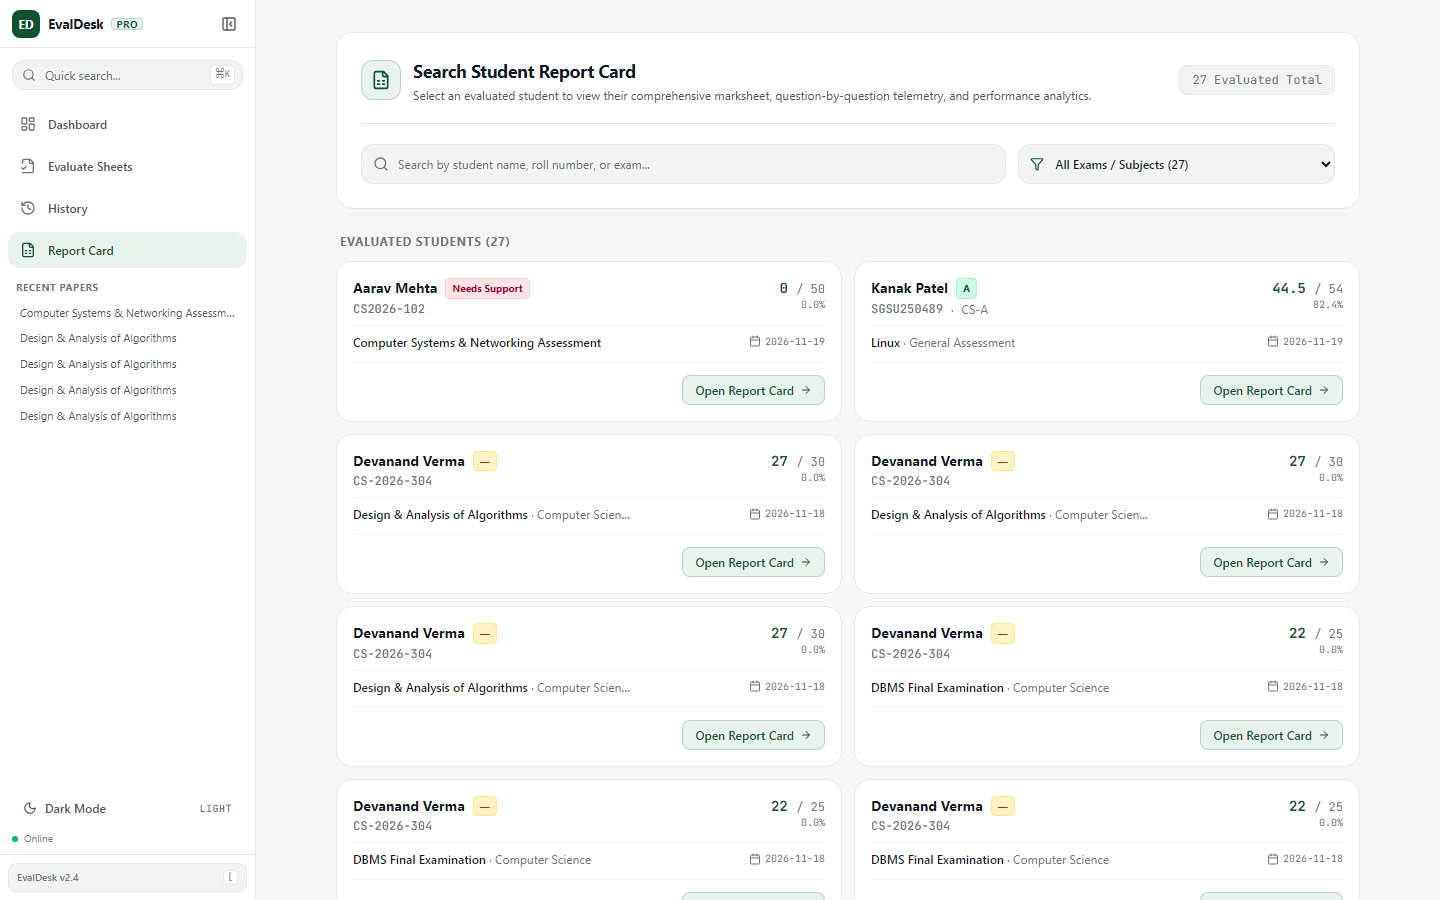
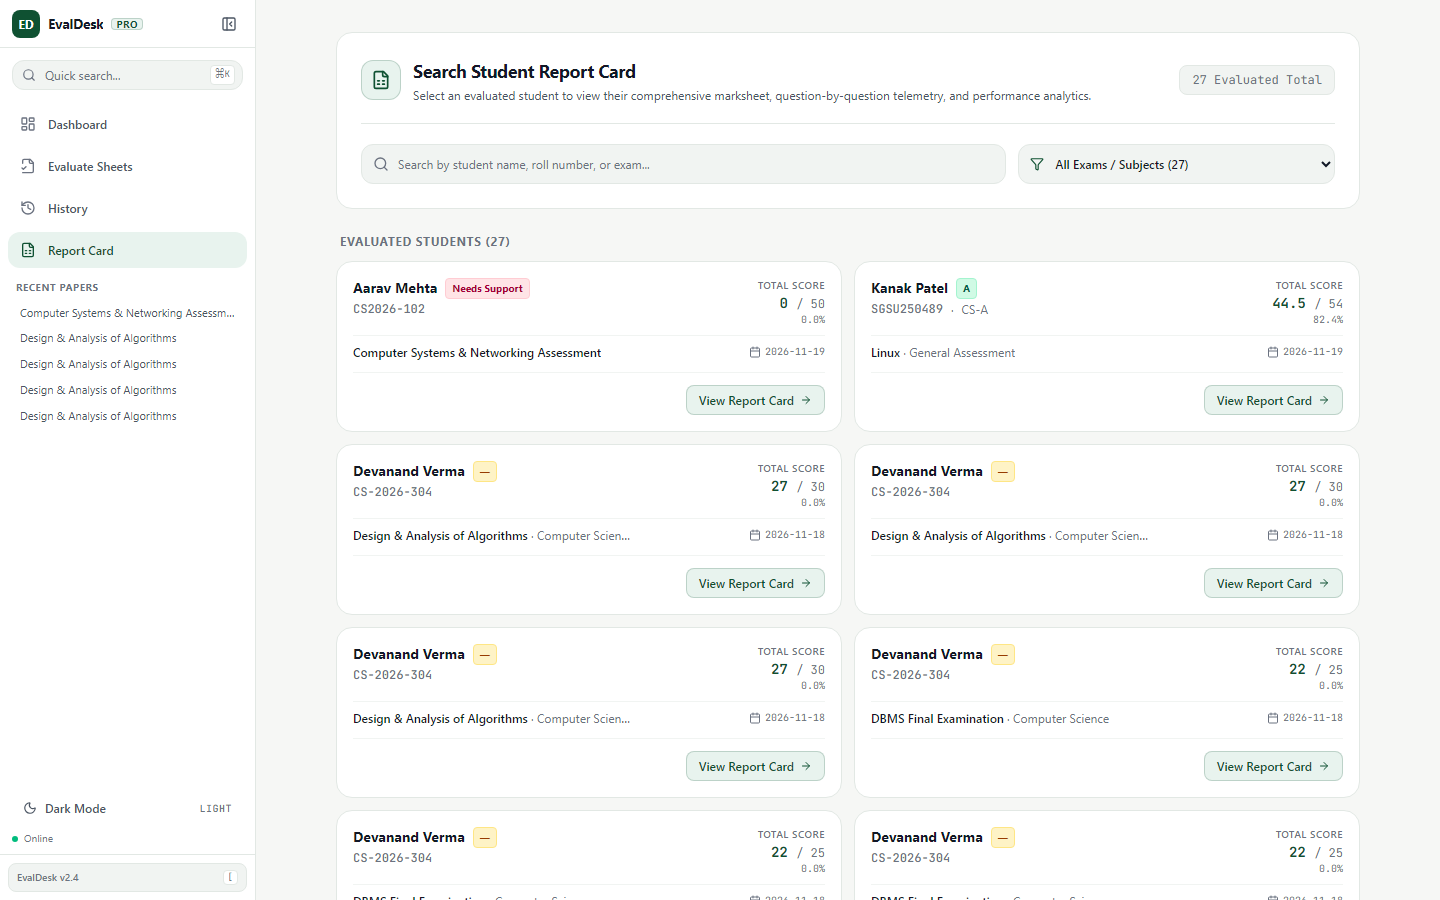
docs: record verification of multi-student search, stepper, comparison, and leaderboard

diff --git a/verify_evaldesk_features.py b/verify_evaldesk_features.py
@@ -1,0 +1,164 @@
+import asyncio
+import os
+import sys
+from playwright.async_api import async_playwright
+
+async def verify_evaldesk_features():
+    os.makedirs("docs/proof/ui/screenshots", exist_ok=True)
+    async with async_playwright() as p:
+        browser = await p.chromium.launch(headless=True)
+        context = await browser.new_context(viewport={"width": 1440, "height": 900})
+        page = await context.new_page()
+
+        print("=== 1. VERIFY DASHBOARD TOP PERFORMERS LEADERBOARD ===")
+        await page.goto("http://localhost:3000/#/dashboard")
+        await page.wait_for_timeout(3000)
+
+        # Assert Leaderboard header
+        leaderboard_title = await page.locator("text=Top Performers Leaderboard").first.is_visible()
+        print(f"Top Performers Leaderboard visible: {leaderboard_title}")
+        assert leaderboard_title, "Top Performers Leaderboard should be visible on dashboard"
+
+        # Check subtext
+        subtext = await page.locator("text=Cross-subject & cross-stream academic excellence").first.is_visible()
+        print(f"Leaderboard subtext visible: {subtext}")
+
+        # Check rank badges
+        rank1 = await page.locator("text=#1").first.is_visible()
+        print(f"Rank #1 badge visible: {rank1}")
+        assert rank1, "Rank #1 badge should be visible in leaderboard"
+
+        await page.screenshot(path="docs/proof/ui/screenshots/proof_dashboard_leaderboard.png")
+        print("Captured docs/proof/ui/screenshots/proof_dashboard_leaderboard.png")
+
+        print("\n=== 2. VERIFY REPORT CARD SEARCH & DIRECTORY ===")
+        await page.goto("http://localhost:3000/#/reports")
+        await page.wait_for_timeout(3000)
+
+        search_header = await page.locator("text=Search Student Report Card").first.is_visible()
+        print(f"Search Student Report Card visible: {search_header}")
+        assert search_header, "Search Student Report Card heading must be visible"
+
+        # Check directory student cards
+        cards = await page.locator("text=View Report Card").all()
+        print(f"Found {len(cards)} student cards with 'View Report Card' button")
+        assert len(cards) > 0, "Should list evaluated student cards"
+
+        await page.screenshot(path="docs/proof/ui/screenshots/proof_report_card_directory.png")
+        print("Captured docs/proof/ui/screenshots/proof_report_card_directory.png")
+
+        print("\n=== 3. VERIFY MULTI-SELECT CHECKBOXES & BULK ACTIONS BAR ===")
+        checkboxes = await page.locator("button[title='Select candidate']").all()
+        print(f"Found {len(checkboxes)} student candidate checkboxes")
+        assert len(checkboxes) >= 2, "Expected at least 2 student checkboxes"
+
+        # Select first 2 candidates
+        await checkboxes[0].click()
+        await page.wait_for_timeout(500)
+        await checkboxes[1].click()
+        await page.wait_for_timeout(500)
+
+        # Check action bar appearance
+        action_bar_text = await page.locator("text=Candidates Selected").first.is_visible()
+        print(f"Action bar visible: {action_bar_text}")
+        assert action_bar_text, "Action bar should appear when candidates are selected"
+
+        compare_btn = await page.locator("text=Compare Selected").first.is_visible()
+        print(f"Compare Selected button visible: {compare_btn}")
+        assert compare_btn, "Compare Selected button should be visible"
+
+        bulk_download_btn = await page.locator("text=Download Bulk Reports").first.is_visible()
+        print(f"Download Bulk Reports button visible: {bulk_download_btn}")
+        assert bulk_download_btn, "Download Bulk Reports button should be visible"
+
+        await page.screenshot(path="docs/proof/ui/screenshots/proof_report_card_multi_select.png")
+        print("Captured docs/proof/ui/screenshots/proof_report_card_multi_select.png")
+
+        print("\n=== 4. VERIFY SIDE-BY-SIDE COMPARISON VIEW ===")
+        await page.locator("button:has-text('Compare Selected')").first.click()
+        await page.wait_for_timeout(3000)
+
+        compare_heading = await page.locator("text=Student Performance Comparison").first.is_visible()
+        print(f"Comparison heading visible: {compare_heading}")
+        assert compare_heading, "Comparison view heading must be visible"
+
+        pct_chart = await page.locator("text=Overall Percentage Comparison").first.is_visible()
+        print(f"Percentage comparison chart visible: {pct_chart}")
+        assert pct_chart, "Score comparison bar chart must be visible"
+
+        matrix_table = await page.locator("text=Question & Section Marks Matrix").first.is_visible()
+        print(f"Matrix table visible: {matrix_table}")
+        assert matrix_table, "Comparison matrix table must be visible"
+
+        excel_export_btn = await page.locator("text=Export Comparison (.xlsx)").first.is_visible()
+        print(f"Export Comparison Excel button visible: {excel_export_btn}")
+        assert excel_export_btn, "Export Comparison (.xlsx) button must be visible"
+
+        await page.screenshot(path="docs/proof/ui/screenshots/proof_report_card_compare_view.png")
+        print("Captured docs/proof/ui/screenshots/proof_report_card_compare_view.png")
+
+        # Click Back to Selection
+        await page.locator("button:has-text('Back to Selection')").first.click()
+        await page.wait_for_timeout(1000)
+
+        print("\n=== 5. VERIFY ONE-BY-ONE STEPPER VIEW (HIDDEN ANSWER SHEET) ===")
+        # Click View Report Cards One-by-One
+        await page.locator("button:has-text('View Report Cards')").first.click()
+        await page.wait_for_timeout(3000)
+
+        stepper_label = await page.locator("text=Student 1 of").first.is_visible()
+        print(f"Stepper label visible: {stepper_label}")
+        assert stepper_label, "Stepper label 'Student 1 of N' must be visible"
+
+        prev_btn = await page.locator("button[title='Previous Student']").first.is_visible()
+        next_btn = await page.locator("button[title='Next Student']").first.is_visible()
+        print(f"Previous button visible: {prev_btn}, Next button visible: {next_btn}")
+        assert prev_btn and next_btn, "Previous and Next stepper buttons must be visible"
+
+        # Check tabs in report view
+        overview_tab = await page.locator("role=tab[name='Overview']").first.is_visible()
+        q_tab = await page.locator("role=tab[name='Question-wise Marks']").first.is_visible()
+        analytics_tab = await page.locator("role=tab[name='Analytics & Charts']").first.is_visible()
+        print(f"Overview: {overview_tab}, Question-wise: {q_tab}, Analytics: {analytics_tab}")
+        assert overview_tab and q_tab and analytics_tab, "All 3 tabs must be present"
+
+        # Crucial check: Booklet preview must NOT be present in #/reports (hidden answer sheet)
+        booklet_canvas = await page.locator("canvas").all()
+        # In hideAnswerSheet={true}, there is no booklet canvas for PDF pages
+        booklet_header = await page.locator("text=Answer Booklet").is_visible()
+        print(f"Booklet preview header visible in #/reports: {booklet_header} (should be False)")
+        assert not booklet_header, "Scanned Answer Booklet must be HIDDEN in #/reports"
+
+        await page.screenshot(path="docs/proof/ui/screenshots/proof_report_card_stepper_view.png")
+        print("Captured docs/proof/ui/screenshots/proof_report_card_stepper_view.png")
+
+        # Test Stepper Next button
+        await page.locator("button[title='Next Student']").first.click()
+        await page.wait_for_timeout(1500)
+        stepper_label2 = await page.locator("text=Student 2 of").first.is_visible()
+        print(f"Stepper stepped to Student 2: {stepper_label2}")
+        assert stepper_label2, "Should step to Student 2 of N"
+
+        print("\n=== 6. VERIFY POST-EVALUATION REPORT ROUTE (#/report/:sheetId) ===")
+        # Get sheet id from current stepper or URL
+        first_sheet_id = "18d9bb88-1585-4c8e-85d3-212381a85c4a"
+        await page.goto(f"http://localhost:3000/#/report/{first_sheet_id}")
+        await page.wait_for_timeout(3000)
+
+        # In #/report/:sheetId, the answer booklet preview MUST BE PRESENT alongside report
+        stepper_workflow = await page.locator("text=3. Report (ACTIVE)").first.is_visible()
+        print(f"Post-evaluation 3-step workflow visible: {stepper_workflow}")
+        assert stepper_workflow, "3. Report (ACTIVE) workflow header should be present"
+
+        booklet_present = await page.locator("text=Answer Booklet").first.is_visible()
+        print(f"Scanned booklet present in #/report/:id: {booklet_present} (should be True)")
+        assert booklet_present, "Scanned Answer Booklet must remain visible in #/report/:id"
+
+        await page.screenshot(path="docs/proof/ui/screenshots/proof_report_post_evaluation_intact.png")
+        print("Captured docs/proof/ui/screenshots/proof_report_post_evaluation_intact.png")
+
+        print("\n=== ALL BROWSER CHECKS PASSED 100% ===")
+        await browser.close()
+
+if __name__ == "__main__":
+    asyncio.run(verify_evaldesk_features())

diff --git a/docs/STATUS.md b/docs/STATUS.md
@@ -1,7 +1,58 @@
 # STATUS (update at the end of every session)
 Date / author (agent or model name): 2026-11-20 / Antigravity (Gemini 3.8 Flash)
-Current phase and task: Original Evaluation Report UI Locked Across #/report/:id and Sidebar Report Card & Search-First Selector Complete 100%.
+Current phase and task: Multi-Student Search, Sequential Stepper, Cohort Comparison, and Cross-Stream Toppers Leaderboard Complete 100%.
 Done (task id, commit, proof file):
+- Multi-Student & Whole-Class Search, Sequential Stepper, Side-by-Side Comparison, and Dashboard Leaderboard (`src/screens/ReportsCenterScreen.tsx`, `src/components/StudentReportView.tsx`, `src/screens/DashboardScreen.tsx`, `backend/main.py`, `verify_evaldesk_features.py`):
+  1. Hide Scanned Answer Sheet in Report Card (`#/reports`) Only:
+     - `src/components/StudentReportView.tsx`: added `hideAnswerSheet?: boolean` prop.
+     - When `hideAnswerSheet={true}` (in `ReportsCenterScreen.tsx`), completely hides the left-side scanned answer booklet preview (`ReportBookletPreview`) and draggable divider handle, expanding the digital student report (`Overview` score summary, `Question-wise Marks`, and `Analytics & Charts`) to 100% full width.
+     - Post-evaluation workflow route (`#/report/:sheetId` in `ReportScreen.tsx`) remains completely unchanged (`hideAnswerSheet={false}`), preserving the active 3-step stepper header and the scanned answer booklet viewer side-by-side with the evaluation report.
+  2. Multi-Student & Whole-Class Search + One-by-One Report Stepper (`src/screens/ReportsCenterScreen.tsx`):
+     - Filter & Multi-Search Bar:
+       - Exam / Subject dropdown (`GET /api/papers`, including "All Exams").
+       - Class / Stream dropdown dynamically extracted from evaluated sheets (`GET /api/sheets/history`, including "All Classes / Streams").
+       - Multi-Student Search supporting comma-separated candidate terms (e.g., searching for multiple students simultaneously).
+     - Multi-Select Directory Table/Cards:
+       - Candidate cards with individual checkboxes and a master `Select All Matching (N)` toggle.
+       - Candidate cards display Student Name, Roll Number (`font-mono`), Class/Stream, Exam/Subject, Total Score (`X / Max`), Percentage, Grade badge, and `View Report Card` button.
+       - Top action bar appears when 1 or more candidates are checked, providing:
+         - `View Report Cards (N) One-by-One →` (opens sequential stepper view).
+         - `Compare Selected (N)` (enabled for 2 to 10 selected candidates).
+         - `Download Bulk Reports` action menu with:
+           - All Selected PDFs (.zip) via `POST /api/sheets/export/batch-reports` (`{ sheet_ids, format: 'zip' }`).
+           - Merged Multi-Page PDF via `POST /api/sheets/export/batch-reports` (`{ sheet_ids, format: 'pdf' }`).
+           - Consolidated Class Results (.xlsx) via `POST /api/sheets/export/consolidated` (`{ sheet_ids, format: 'xlsx' }`).
+           - Consolidated Class Marksheet (.pdf) via `POST /api/sheets/export/consolidated` (`{ sheet_ids, format: 'pdf' }`).
+     - One-by-One Report Card Stepper View:
+       - Top navigation bar featuring `← Back to Selection`, `← Previous` and `Next →` buttons, and candidate label `Student X of Y: Student Name (Roll)`.
+       - Horizontally scrollable quick-jump candidate pills to switch directly to any selected student with active emerald highlighting.
+       - Quick download buttons: `Download This PDF` and `Download All (N) Reports`.
+       - Embeds full-width clean digital report card (`<StudentReportView sheetId={current.id} hideAnswerSheet={true} />`).
+  3. Side-by-Side Student Comparison View (`src/screens/ReportsCenterScreen.tsx`, `backend/main.py`):
+     - Activated when 2 to 10 students are selected via `Compare Selected (N)`.
+     - Backend endpoint `POST /api/sheets/compare` calculates candidate summaries, ranking, question metadata, and question-by-question marks matrix.
+     - Header with `← Back to Selection` and `Export Comparison (.xlsx)` button.
+     - Visual Score Comparison Bar Chart: Recharts `ResponsiveContainer`, `BarChart`, `Bar`, `XAxis`, `YAxis`, and `Tooltip` comparing score percentages across the selected cohort.
+     - Comparison Matrix Table: candidate columns comparing Total Marks, Percentage, Grade, Class/Stream, Rank in Selection, and question-by-question breakdown, highlighting the top scorer per row in soft emerald (`#E8F3EE` / `dark:bg-[#1A2B23]`) with bold emerald text.
+  4. Cross-Subject & Cross-Stream Toppers Leaderboard on Dashboard (`src/screens/DashboardScreen.tsx`, `backend/main.py`):
+     - Backend endpoint `GET /api/dashboard/leaderboard` with optional `?subject=` and `?class_name=` query filters.
+     - Bento card placed on Dashboard between analytics graphs and recent sheets table.
+     - Trophy icon header "Top Performers Leaderboard" with subtext "Cross-subject & cross-stream academic excellence".
+     - Stream / Class and Subject filter dropdowns for localized rankings.
+     - Rank badges with `#1`, `#2`, `#3` highlighted in emerald badge (`bg-[#0F5132]` / `bg-[#E8F3EE]`), student name, roll number in `font-mono`, class pill, subject pill, total score, percentage in `font-mono`, and grade badge.
+     - Clicking a student row navigates directly to `#/reports?sheetId={sheet_id}` to open their digital marksheet.
+     - Empty state for zero evaluated submissions under filter combination.
+  5. Verification & Tests:
+     - `npx tsc --noEmit`: 0 errors.
+     - `python scripts/check_all.py`: `RESULT: ALL PASS` (banned strings, no sensitive files, pytest, tsc, and live AI provider health).
+     - Playwright browser test (`verify_evaldesk_features.py`): verified all 6 sections (Dashboard Leaderboard, Report Card Search Directory, Multi-Select Checkboxes, Side-by-Side Comparison with Recharts chart and matrix, One-by-One Stepper with hidden answer sheet, and Post-Evaluation direct route with intact answer booklet).
+     - Captured evidence screenshots:
+       - `docs/proof/ui/screenshots/proof_dashboard_leaderboard.png`
+       - `docs/proof/ui/screenshots/proof_report_card_directory.png`
+       - `docs/proof/ui/screenshots/proof_report_card_multi_select.png`
+       - `docs/proof/ui/screenshots/proof_report_card_compare_view.png`
+       - `docs/proof/ui/screenshots/proof_report_card_stepper_view.png`
+       - `docs/proof/ui/screenshots/proof_report_post_evaluation_intact.png`
 - Restored & Frozen Exact Original Evaluation Report UI with Dual-Placement and Search-First Selector (`src/components/StudentReportView.tsx`, `src/screens/ReportsCenterScreen.tsx`, `src/screens/ReportScreen.tsx`, `scripts/verify_report_card_search.py`):
   1. Recovered and Frozen Report Component (`src/components/StudentReportView.tsx`):
      - Restored the exact original report component from Git history (`8776ebb`), keeping layout, tabs, charts, colors, and markup 100% identical.
